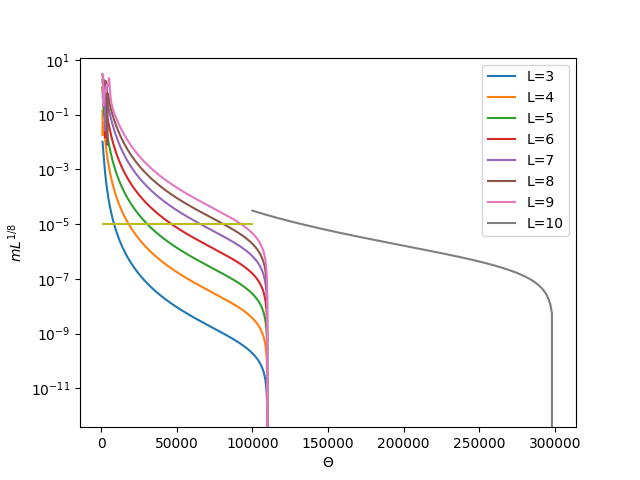
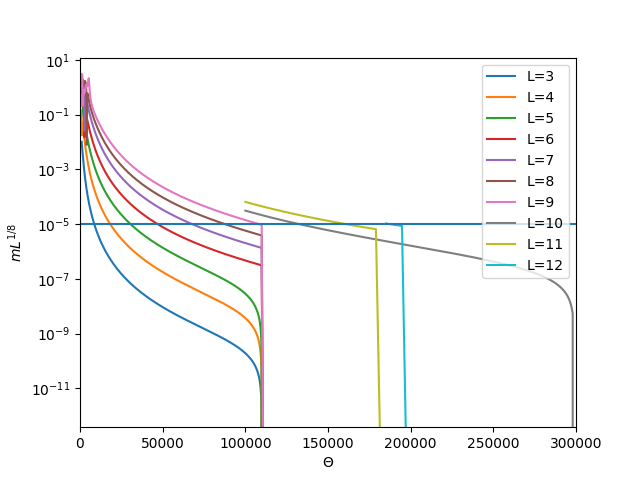
used new data

diff --git a/plt.py b/plt.py
@@ -1,8 +1,8 @@
 import numpy as np
 import pandas as pd
 import matplotlib.pyplot as plt
-data=pd.read_csv("quench4.dat")
-elles=[3,4,5,6,7,8,9,10]
+data=pd.read_csv("quench_error_step.dat")
+elles=[3,4,5,6,7,8,9,10,11,12]
 
 def bubbleSort(x,y):
     len_array = len(x)
@@ -28,11 +28,11 @@ for ell in elles:
     x=filtered_data['steps']
     y=filtered_data['magz']
     plt.plot(x, np.abs((y-y.iloc[-1])/y.iloc[-1]),label=f'L={ell}')
-plt.plot([1000,100000],[1.e-5,1.e-5])
+plt.plot([1000,300000],[1.e-5,1.e-5])
 plt.legend()
 plt.xlabel(r'$\Theta$')
 plt.ylabel(r'$m L^{1/8}$')
-#plt.xlim(0.,39.)
+plt.xlim(0.,3.e5)
 #plt.ylim(-1.,0.6)
 plt.yscale("log")
 plt.savefig("step_test.png")
